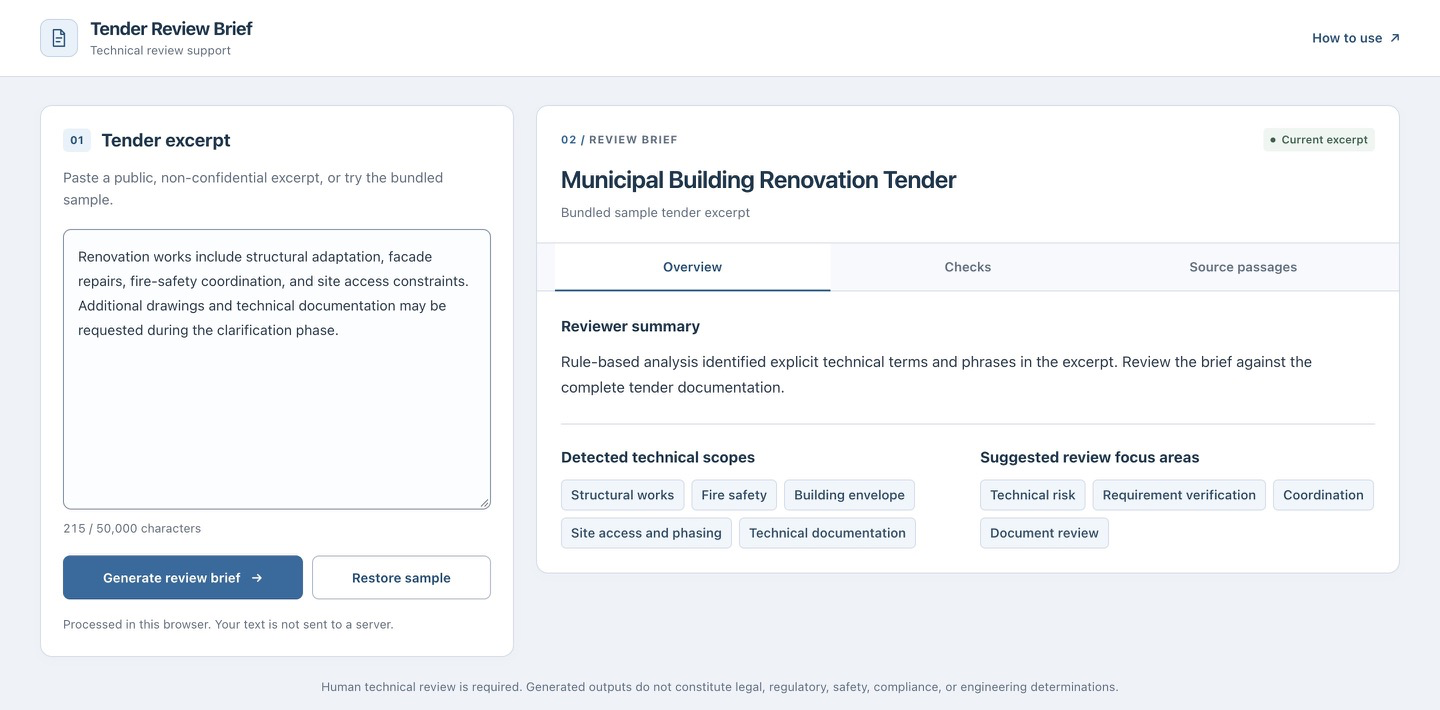
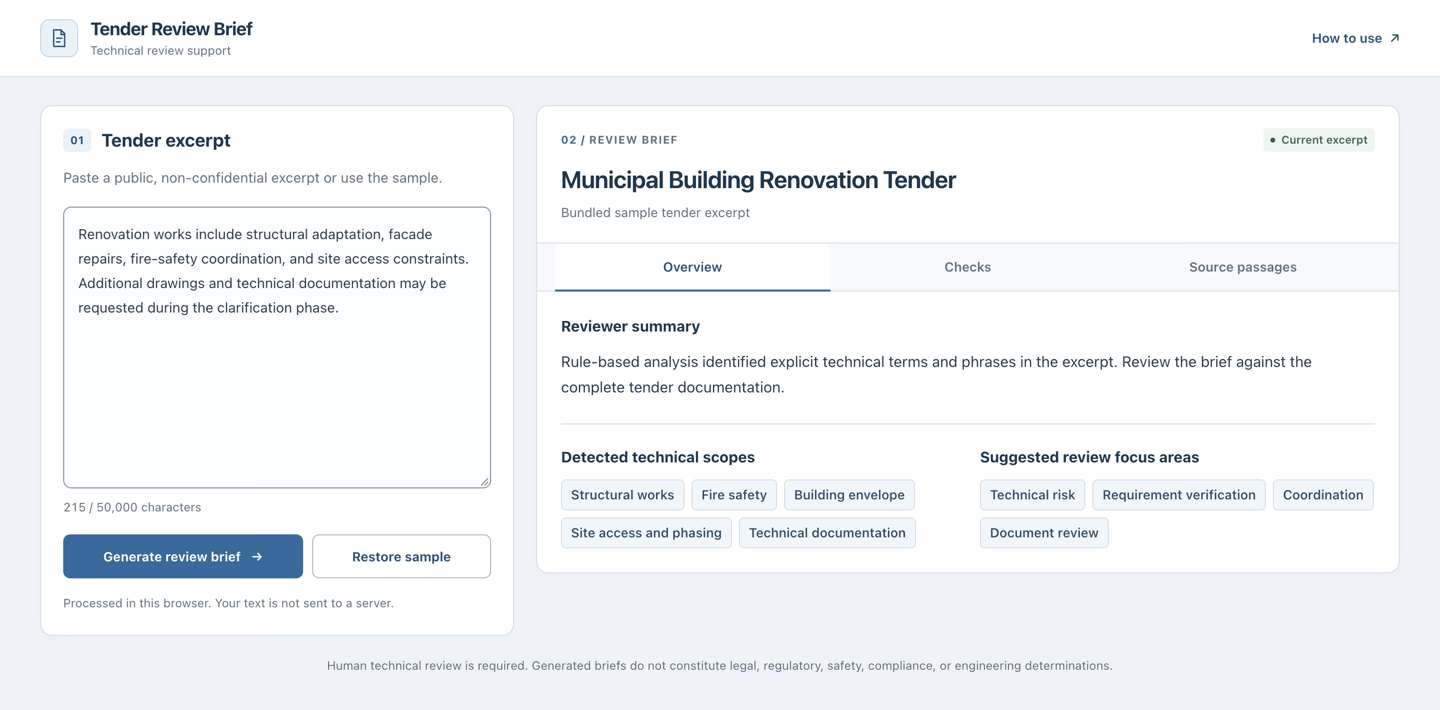
docs: explain desktop regeneration and align screenshots
The README described the side-by-side layout but did not explain where
the page scrolls when a reviewer regenerates an off-screen brief. The
screenshots also showed the older editor hint.

The README now describes bringing an off-screen brief back into view.
The manual browser guide covers regeneration after scrolling through a
long quotation and reaching Restore sample when validation makes a
resized editor too tall to pin. The development guide and changelog
record both scenarios.

The on-screen notice and README use generated briefs when describing the
human review requirement. Both screenshots show the shorter editor hint
and the updated notice.

diff --git a/src/components/DisclaimerFooter.jsx b/src/components/DisclaimerFooter.jsx
@@ -1,7 +1,7 @@
 export function DisclaimerFooter() {
   return (
     <footer className="disclaimer">
-      Human technical review is required. Generated outputs do not constitute legal, regulatory, safety, compliance, or engineering determinations.
+      Human technical review is required. Generated briefs do not constitute legal, regulatory, safety, compliance, or engineering determinations.
     </footer>
   )
 }

diff --git a/docs/development.md b/docs/development.md
@@ -42,7 +42,7 @@ npm run test:browser
 
 The browser command starts a temporary preview at `http://127.0.0.1:4188/tender-review-brief/`. Keep port 4188 available. On Linux, use `npx playwright install --with-deps chromium` when system dependencies are missing. See [Playwright browser installation](https://playwright.dev/docs/browsers) for details.
 
-The tests check the desktop workspace, keyboard-operated result tabs, mobile navigation, and result status through edits, reloads, and regeneration. They also cover legacy saved briefs, storage failures, visible whitespace and Unicode line breaks, disclosure reset, and 320-pixel-wide layouts. Traces are retained on failure in `test-results/`. See [manual browser checks](testing-evidence.md) for additional checks in other browsers.
+The tests check the desktop workspace, regeneration after scrolling through long passages, resized editors with validation errors, keyboard-operated result tabs, mobile navigation, and result status through edits, reloads, and regeneration. They also cover legacy saved briefs, storage failures, visible whitespace and Unicode line breaks, disclosure reset, and 320-pixel-wide layouts. Traces are retained on failure in `test-results/`. See [manual browser checks](testing-evidence.md) for additional checks in other browsers.
 
 ## Dependency audits
 
@@ -70,7 +70,7 @@ The application uses React and JavaScript with CSS. Vite builds the application;
 
 ## Changing review rules
 
-Rules are defined in [`src/rules/analyzeExcerpt.js`](../src/rules/analyzeExcerpt.js). Each rule has keywords, a technical scope, a focus area, a follow-up check, and a reviewer question. Rule order determines the order of the generated output.
+Rules are defined in [`src/rules/analyzeExcerpt.js`](../src/rules/analyzeExcerpt.js). Each rule has keywords, a technical scope, a focus area, a follow-up check, and a reviewer question. Rule order determines the order of items in the generated brief.
 
 When adding or changing a rule:
 

diff --git a/docs/testing-evidence.md b/docs/testing-evidence.md
@@ -69,4 +69,20 @@ For fixtures containing tabs, Unicode separators, or long padding, the commands 
 
 11. At 390 pixels wide, generate a brief and check that focus moves to its heading and the result scrolls into view. Repeat at 375 × 667 pixels: the result's status badge must stay within the screen after generation. **Edit excerpt** must return focus to the input. At a wide desktop viewport, the editor and brief must appear side by side; the bundled sample's overview should fit within a 1440 × 900 viewport.
 
+12. At a wide desktop viewport, generate a brief from this long passage:
+
+    ```js
+    copy('Water requirements:\n' + 'Drawings and installation details must be checked.\n'.repeat(100))
+    ```
+
+    Open **Source passages**, expand the quotation, and scroll until the result header is above the screen. The editor stays visible while it fits within the viewport. Choose **Generate review brief** again: focus must move to the result heading, its header and status must return to view, and the unchanged quotation must stay expanded.
+
+13. With the same long result open, use a 1000 × 800 viewport and enlarge the textarea with its resize handle. Paste an oversized input:
+
+    ```js
+    copy('x'.repeat(50001))
+    ```
+
+    Choose **Generate review brief** to show the input error. When the editor becomes taller than the available viewport, it must scroll with the page. Scroll to **Restore sample**: the whole button must be visible and usable, and it must restore both the sample text and brief.
+
 Paragraph context is a text-boundary policy. These checks do not establish that all conditions elsewhere in the tender have been captured or that the keyword matcher understands exclusions.

diff --git a/README.md b/README.md
@@ -14,7 +14,7 @@ The application uses predefined keyword rules to suggest technical scopes, revie
 2. Choose **Generate review brief**. Review the detected scopes and focus areas in **Overview**, then the suggested checks and questions in **Checks**.
 3. Open **Source passages** to read the supporting quotations. Check the complete tender documents before deciding what needs further investigation.
 
-On narrow screens, generation moves to the result; **Edit excerpt** returns to the input. On wider screens, the editor and brief appear side by side.
+On narrow screens, generation moves to the result; **Edit excerpt** returns to the input. On wider screens, the editor and brief appear side by side; generation brings an off-screen result back into view.
 
 Editing the excerpt leaves the previous result visible with an **Excerpt changed** notice. Generate again to update it. The brief saves its source text, so the notice also works after a reload when browser storage is available.
 
@@ -67,7 +67,7 @@ Automated tests cover matching, quote preservation, stored-brief validation, sto
 
 PDF ingestion, URL fetching, OCR, brief export, saved reviewer decisions, authentication, and shared review sessions are not implemented. Briefs restored from older sessions keep their previous content until a new brief is generated.
 
-The output supports human technical review. It does not make legal, regulatory, safety, compliance, or engineering determinations.
+Human technical review is required. Generated briefs do not constitute legal, regulatory, safety, compliance, or engineering determinations.
 
 ## Documentation
 

diff --git a/CHANGELOG.md b/CHANGELOG.md
@@ -24,6 +24,9 @@ the excerpt and brief together in a compact review workspace.
 
 ### Fixed
 
+- Bring an off-screen result header back into view after desktop regeneration.
+  Keep the editor's controls reachable when textarea resizing or input errors
+  make the panel too tall to remain pinned.
 - Identify briefs based on an earlier excerpt, including after reloading a saved
   session. Ask for regeneration when an older saved brief has no recorded source
   text, while keeping its result available.
@@ -42,7 +45,8 @@ the excerpt and brief together in a compact review workspace.
   keyboard operation, disclosure reset, and 320-pixel-wide layouts; run them in CI.
 - Cover desktop layout, result-tab keyboard navigation, mobile focus, and source
   association through edits, reloads, regeneration, and sample reset, including
-  legacy saved briefs and unavailable storage.
+  legacy saved briefs and unavailable storage. Add regressions for desktop
+  regeneration after scrolling and resized editors with validation errors.
 - Require successful CI checks for the same commit before GitHub Pages deployment.
 - Expand unit tests for paragraph context, shared passages, multiline phrases,
   maximum-length input, and disclosure markup.
